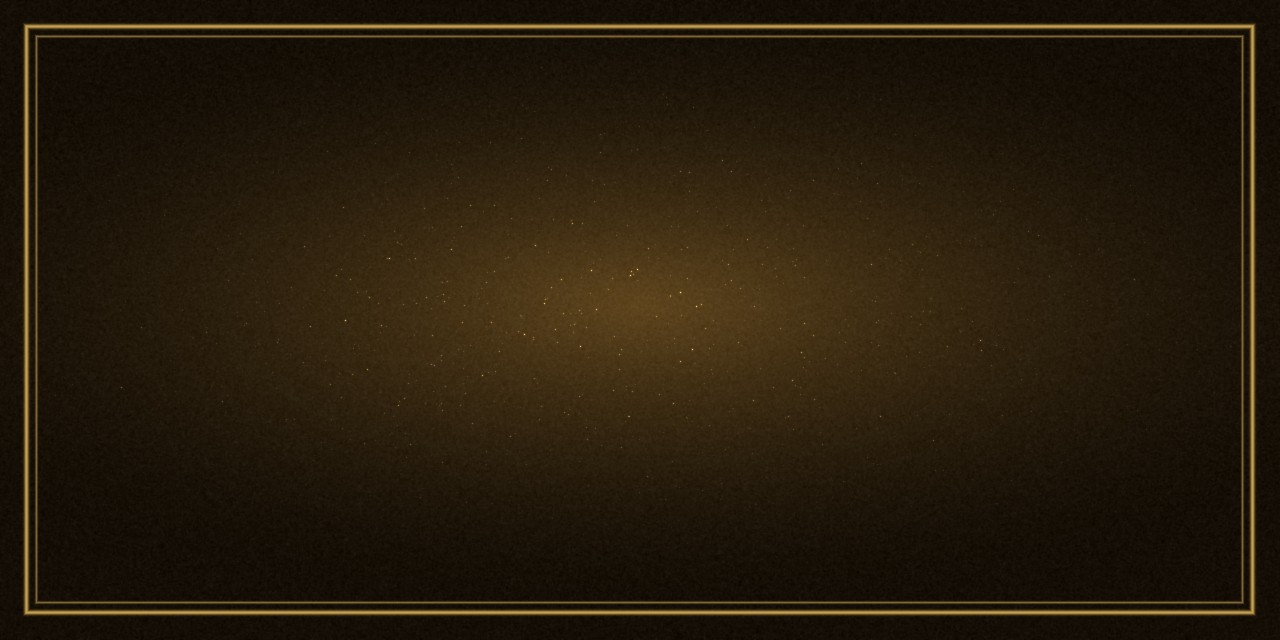
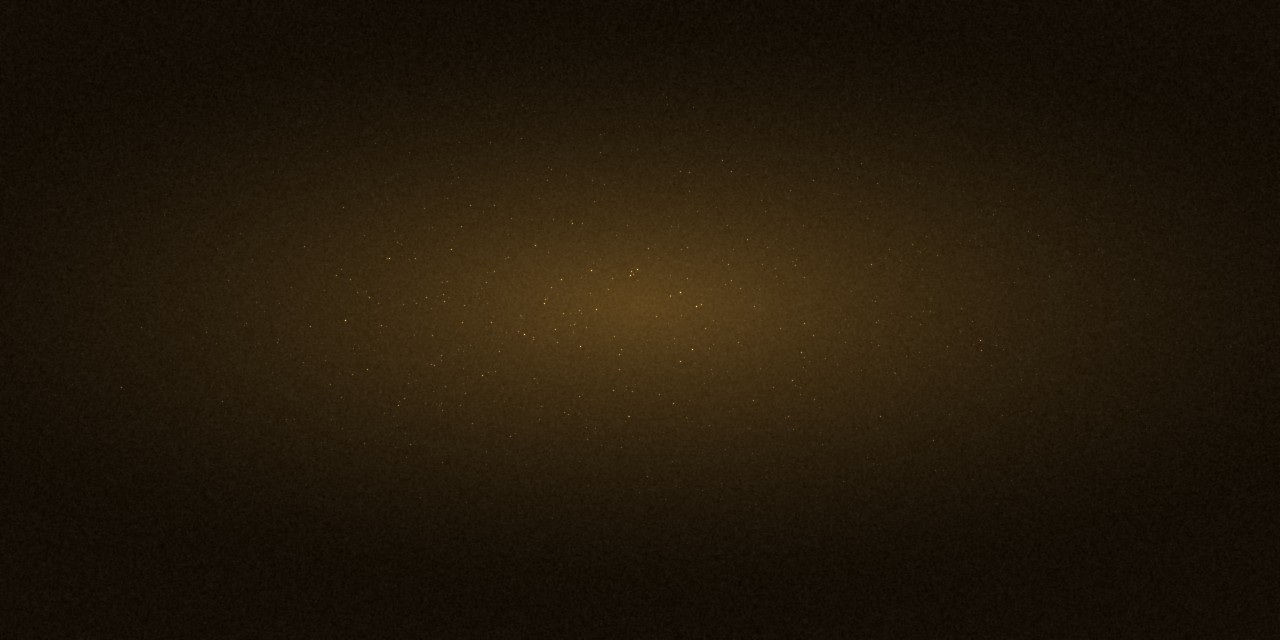
Plain gilded felt edge, podium of three in a row
- The Gilded felt loses its gold double rule, which clashed with the
  placards and buttons; the gold flecks stay.
- The podium shows the top three only, left to right from first, all the
  same size on one line (the winner keeps its glow).

Claude-Session: https://claude.ai/code/session_01WrGcoRYHE6LeQSZaJD9jW8

Changed region(s): [[0.0, 0.0312, 1.0, 0.9688]]

diff --git a/core/src/main/java/ohheck/table/TableOverlays.java b/core/src/main/java/ohheck/table/TableOverlays.java
@@ -470,11 +470,10 @@ final class TableOverlays {
 	}
 
 	static final float NEW_BEST_LENGTH = 1.6f;
-	private static final float PODIUM_W = 118, PODIUM_WINNER_W = 150, PODIUM_STEP_X = 150, PODIUM_BASE = 0.14f,
+	private static final int PODIUM_PLACES = 3;
+	private static final float PODIUM_W = 150, PODIUM_STEP_X = 200, PODIUM_BASE = 0.2f,
 			ROLL_FROM = 0.3f,
 			ROLL_STEP = 0.28f, ROLL_SPIN = 28, BEST_FLASH = 0.45f;
-	private static final float[] PODIUM_LIFT = { 0, 60, 30, 12, 0 };
-	private static final int[] PODIUM_SPOT = { 0, 2, 1, 3, 4 };
 	private static final String[] PLACE_CAPS = { "", "FIRST", "SECOND", "THIRD", "FOURTH" };
 	private static final String WINNER_IS = "And the winner is\u2026";
 	private static final Tween PODIUM_UP = Tween.over(GameEnd.RISE, Ease.OUT);
@@ -485,17 +484,17 @@ final class TableOverlays {
 		paint.fade(Math.min(1, t * 3));
 		paint.rect(0, 0, layout.w, layout.h, Palette.BACKDROP);
 		paint.fade(1f);
-		float span = (n - 1) * PODIUM_STEP_X, base = layout.h * PODIUM_BASE;
-		for (int s = 0; s < n; s++) {
-			int place = match.placeOf(s);
-			float k = PODIUM_UP.progress(t - GameEnd.risesAt(place, n));
+		List<Integer> order = ranked();
+		int shown = Math.min(PODIUM_PLACES, order.size());
+		float span = (shown - 1) * PODIUM_STEP_X, base = layout.h * PODIUM_BASE, cw = PODIUM_W, ch = cw * 98 / 73;
+		for (int i = 0; i < shown; i++) {
+			float k = PODIUM_UP.progress(t - GameEnd.risesAt(i + 1, n));
 			if (k <= 0) {
 				continue;
 			}
-			int spot = PODIUM_SPOT[place] - 1;
-			float cw = place == 1 ? PODIUM_WINNER_W : PODIUM_W, ch = cw * 98 / 73;
-			float cx = layout.w / 2 - span / 2 + spot * PODIUM_STEP_X, y = base + PODIUM_LIFT[place] - (1 - k) * (layout.h * 0.8f);
-			podiumCard(s, place, cx - cw / 2, y, cw, ch, t);
+			int s = order.get(i);
+			float cx = layout.w / 2 - span / 2 + i * PODIUM_STEP_X, y = base - (1 - k) * (layout.h * 0.8f);
+			podiumCard(s, match.placeOf(s), cx - cw / 2, y, cw, ch, t);
 		}
 		float waiting = t - GameEnd.risesAt(2, n) - GameEnd.RISE;
 		if (waiting > 0 && t < GameEnd.risesAt(1, n)) {
@@ -515,12 +514,12 @@ final class TableOverlays {
 			paint.batch.setBlendFunction(GL20.GL_SRC_ALPHA, GL20.GL_ONE_MINUS_SRC_ALPHA);
 			paint.batch.setColor(Color.WHITE);
 		}
-		art.shadow(x, y, cw, ch, first ? 10 : 5);
+		art.shadow(x, y, cw, ch, 6);
 		paint.batch.draw(paint.assets.campaignFace, x, y, cw, ch);
 		float cx = x + cw / 2;
 		paint.text(paint.ui(0.85f, Palette.GOLD), PLACE_CAPS[place], cx, y + ch - 16, true);
 		paint.numeral(place, cx, y + ch * 0.6f, cw * 0.36f, first ? Palette.GOLD_LIGHT : Palette.GOLD);
-		paint.text(paint.serif(first ? 1.4f : 1.2f, Palette.GOLD_LIGHT), scene.name(seat), cx, y + ch * 0.34f, true);
+		paint.text(paint.serif(1.3f, Palette.GOLD_LIGHT), scene.name(seat), cx, y + ch * 0.34f, true);
 		paint.text(paint.ui(1.0f, Palette.CREAM), Numbers.text(match.score(seat)), cx, y + ch * 0.2f, true);
 	}
 

diff --git a/tools/make_art.py b/tools/make_art.py
@@ -313,10 +313,6 @@ def table(out, name="table.jpg", dark=(20, 12, 8), lit=(92, 58, 38), gilt=False)
         flecks = np.clip(rng.normal(0, 1, (H, W)) - 2.6, 0, None) * light
         flecks = np.asarray(Image.fromarray(np.clip(flecks * 255, 0, 255).astype(np.uint8), "L").filter(ImageFilter.GaussianBlur(0.6))) / 255.0
         img += flecks[..., None] * np.array((255, 205, 110), float) * 1.4
-        px, py = (x + 1) / 2 * W, (y + 1) / 2 * H
-        edge = np.minimum(np.minimum(px, W - 1 - px), np.minimum(py, H - 1 - py))
-        rule = np.exp(-((edge - 26) / 2.2) ** 2) + 0.6 * np.exp(-((edge - 36) / 1.2) ** 2)
-        img = img * (1 - np.clip(rule, 0, 1)[..., None]) + np.clip(rule, 0, 1)[..., None] * np.array((200, 160, 80), float)
     Image.fromarray(np.clip(img, 0, 255).astype(np.uint8), "RGB").save(os.path.join(out, name), quality=90, optimize=True)
 
 
